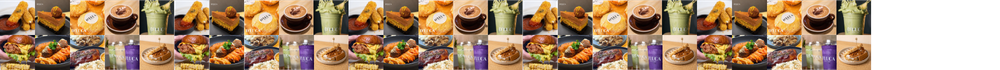
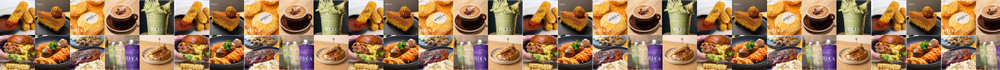
Update marquee: new image, slower, bigger, edge feathering

Changed region(s): [[0.868, 0.0, 1.0, 1.0]]

diff --git a/src/styles/global.css b/src/styles/global.css
@@ -187,19 +187,41 @@ footer {
 .marquee-wrap {
   width: 100%;
   overflow: hidden;
-  padding: 4px 0;
+  padding: 16px 0;
+  position: relative;
+}
+
+.marquee-wrap::before,
+.marquee-wrap::after {
+  content: "";
+  position: absolute;
+  top: 0;
+  bottom: 0;
+  width: 64px;
+  z-index: 2;
+  pointer-events: none;
+}
+
+.marquee-wrap::before {
+  left: 0;
+  background: linear-gradient(to right, var(--bg) 0%, transparent 100%);
+}
+
+.marquee-wrap::after {
+  right: 0;
+  background: linear-gradient(to left, var(--bg) 0%, transparent 100%);
 }
 
 .marquee-track {
   display: flex;
   gap: 0;
   width: fit-content;
-  animation: marqueeScroll 20s linear infinite;
+  animation: marqueeScroll 50s linear infinite;
 }
 
 .marquee-img {
   display: block;
-  height: 60px;
+  height: 80px;
   width: auto;
   flex-shrink: 0;
 }